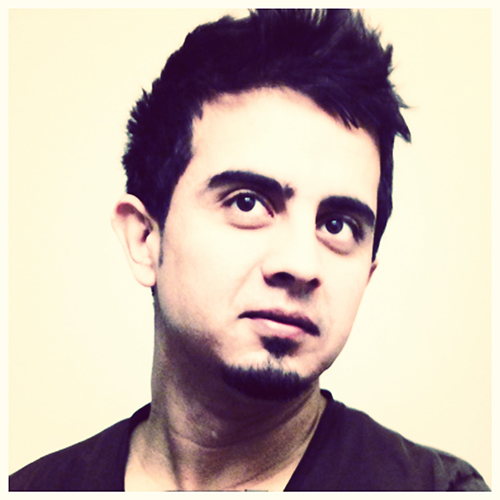
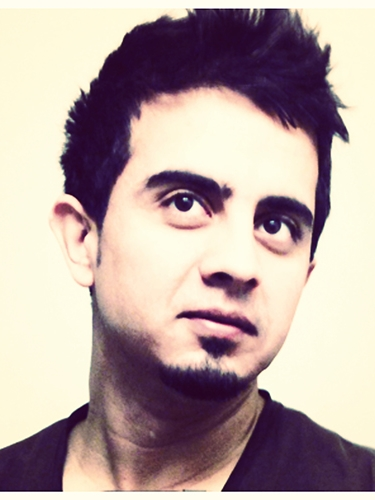
Changed nasim.jpg to same size ratio to work with current css.  Navigation text to be first initial and last name

diff --git a/public_html/js/myscript.js b/public_html/js/myscript.js
@@ -15,7 +15,7 @@ function Student(name, stuNum, pic, login) {
 }
 
 $(document).on("click", "ul[id='studentNav'] > li", function() {
-      var i = $(this).closest("li").attr("li-id");
+    var i = $(this).closest("li").attr("li-id");
     console.log(i);
     var studentInfo = getJQMTable({
         theads: ["Name:", "Student#:", "Login:"],
@@ -38,12 +38,22 @@ $(document).on("pagecreate", "#home", function (){
         localStorage.setItem(LS_PRE + "students", JSON.stringify(data));
         
         initMainNavbar(students);
+        initProteinNavbar(students);
+        initUsdaNavbar(students);
         
         console.log(students);
     });
     
     
 });
+
+function initProteinNavbar(students){
+    initNav(students, "#protein-nav", "proteinNav");
+}
+
+function initUsdaNavbar(students){
+    initNav(students, "#nav-usda", "usdaNav");
+}
 
 function initMainNavbar(students) {
     initNav(students, "#main-nav", "studentNav");
@@ -54,9 +64,14 @@ function initNav(students, id, ulId) {
     var navHtml = "";
     var popupLink = "#student";
     
+    
     for (var i = 0; i < students.length; i++) {
+        var tempArr = students[i].name.split(" ");
+        
+        var navText = getFirstInitialAndLastName(tempArr);
+        
         navHtml += "<li li-id='"+i+"'><a href='" + popupLink + "' data-rel='popup' class='ui-btn ui-icon-group-dev ui-btn-icon-left'> " 
-                + students[i].name + "</a></li>"
+                + navText + "</a></li>"
     }
     
     $(id).html(
@@ -68,6 +83,12 @@ function initNav(students, id, ulId) {
     $(id).navbar("destroy");
     $(id).navbar();
 }
+
+function getFirstInitialAndLastName(strArr) {
+    
+    return strArr[0].substr(0,1) + ". " + strArr[strArr.length-1];
+}
+
 function initStudentArray(data) {
     var temp = data.students;
         
